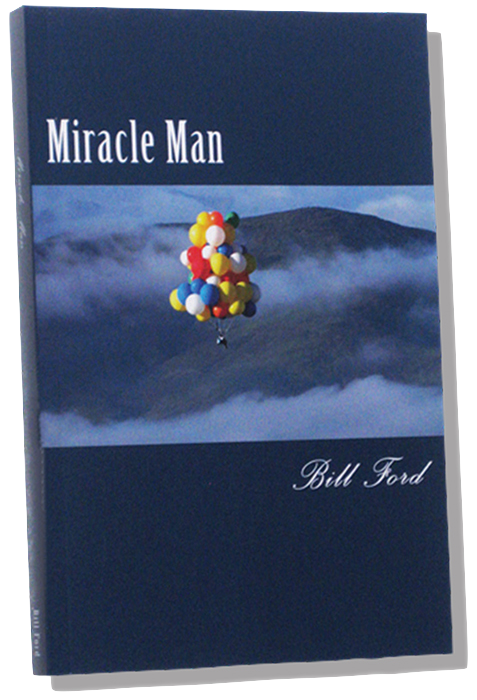
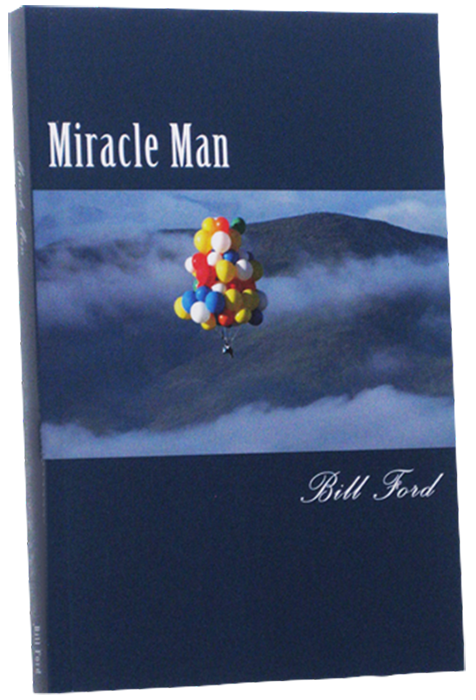
Added book without drop shadow

Changed region(s): [[0.0294, 0.0, 1.0, 1.0], [0.0, 0.03, 0.0294, 0.06]]

diff --git a/index.html b/index.html
@@ -16,7 +16,7 @@
       <h1>HE FLOATED INTO HEAVEN IN A LA-Z-BOY RECLINER <br> AND GOT THE SURPRISE OF HIS LIFE.</h1>
 
       <div class="book">
-        <img class="book-image" src="images/book.jpg" />
+        <img class="book-image" src="images/book.png" />
         <img class="book-title" src="images/book-title.png" />
       </div>
 
